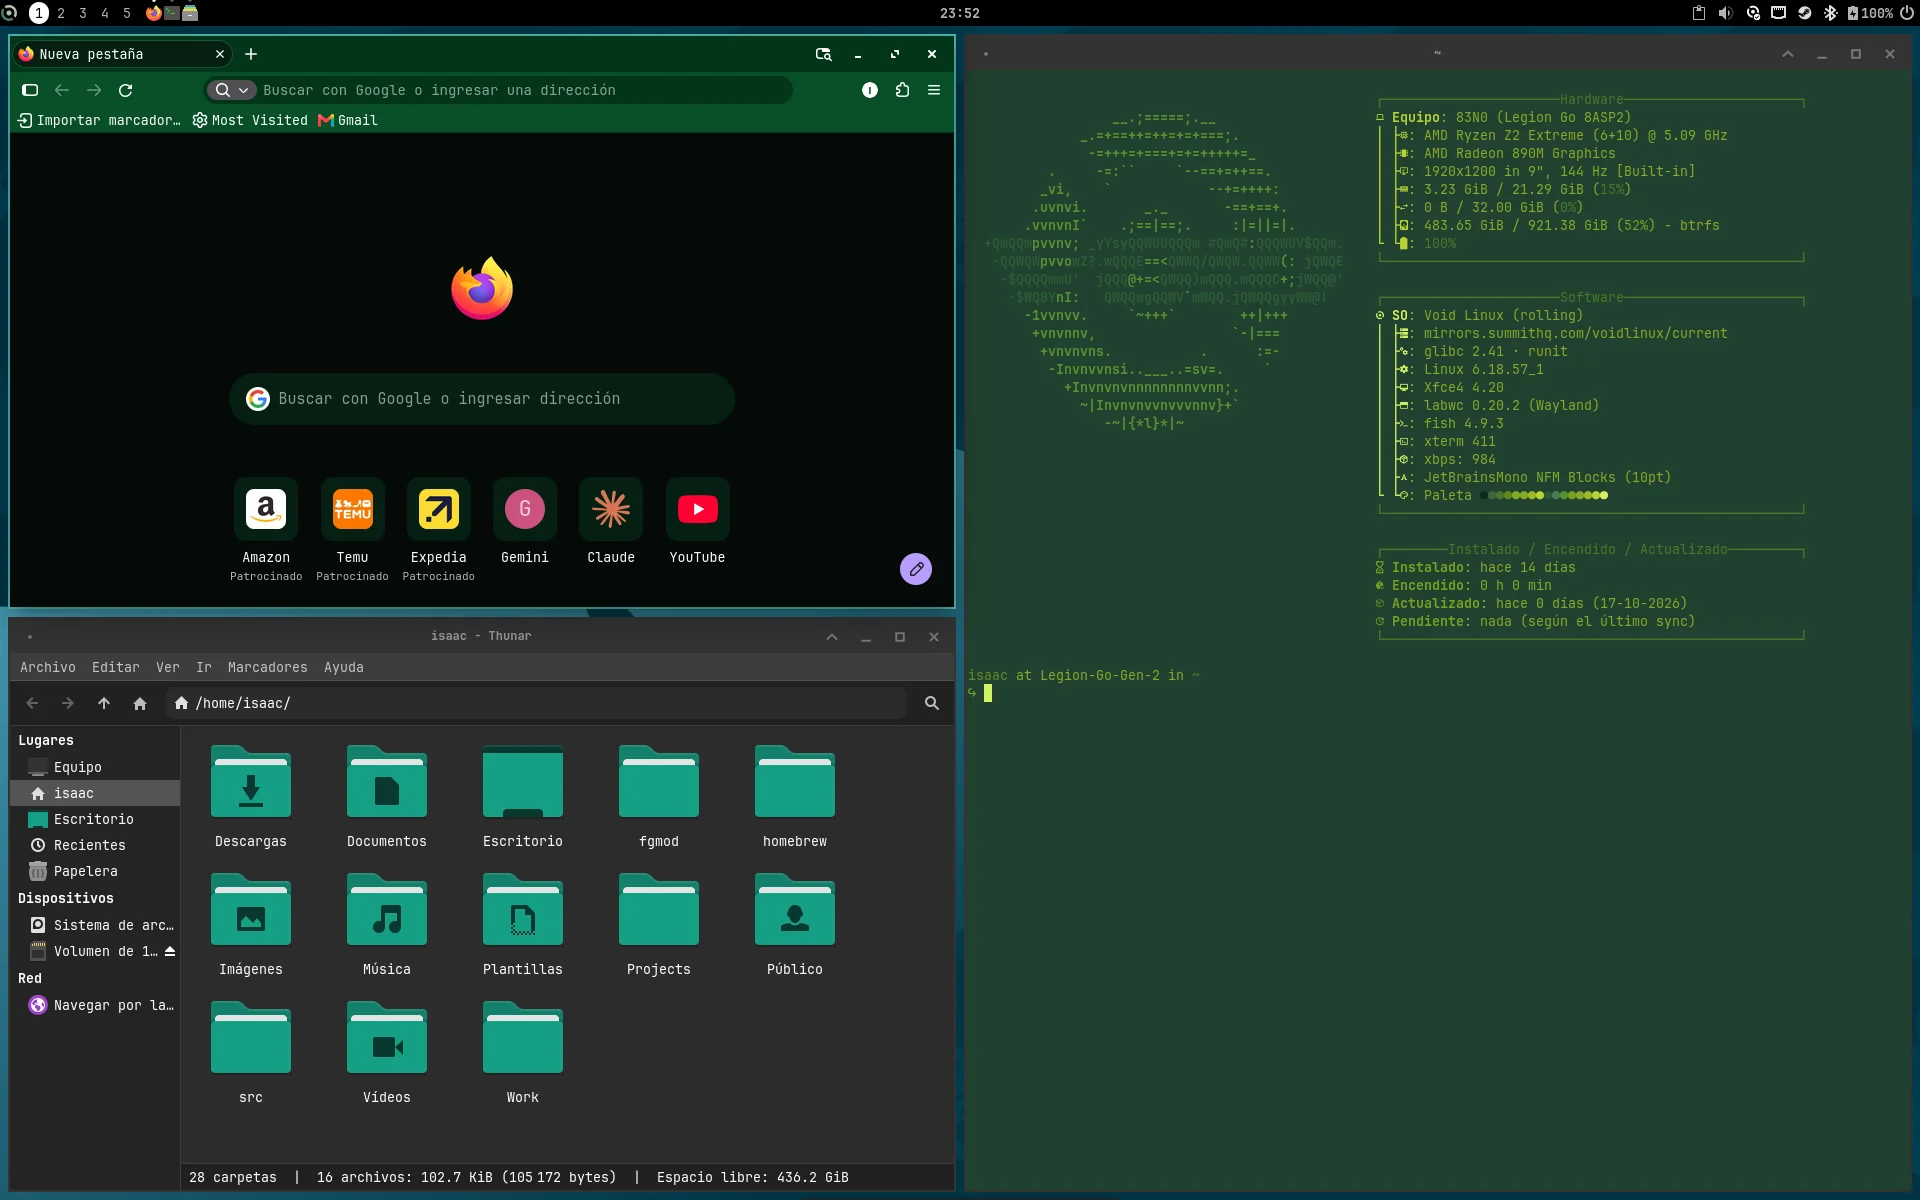
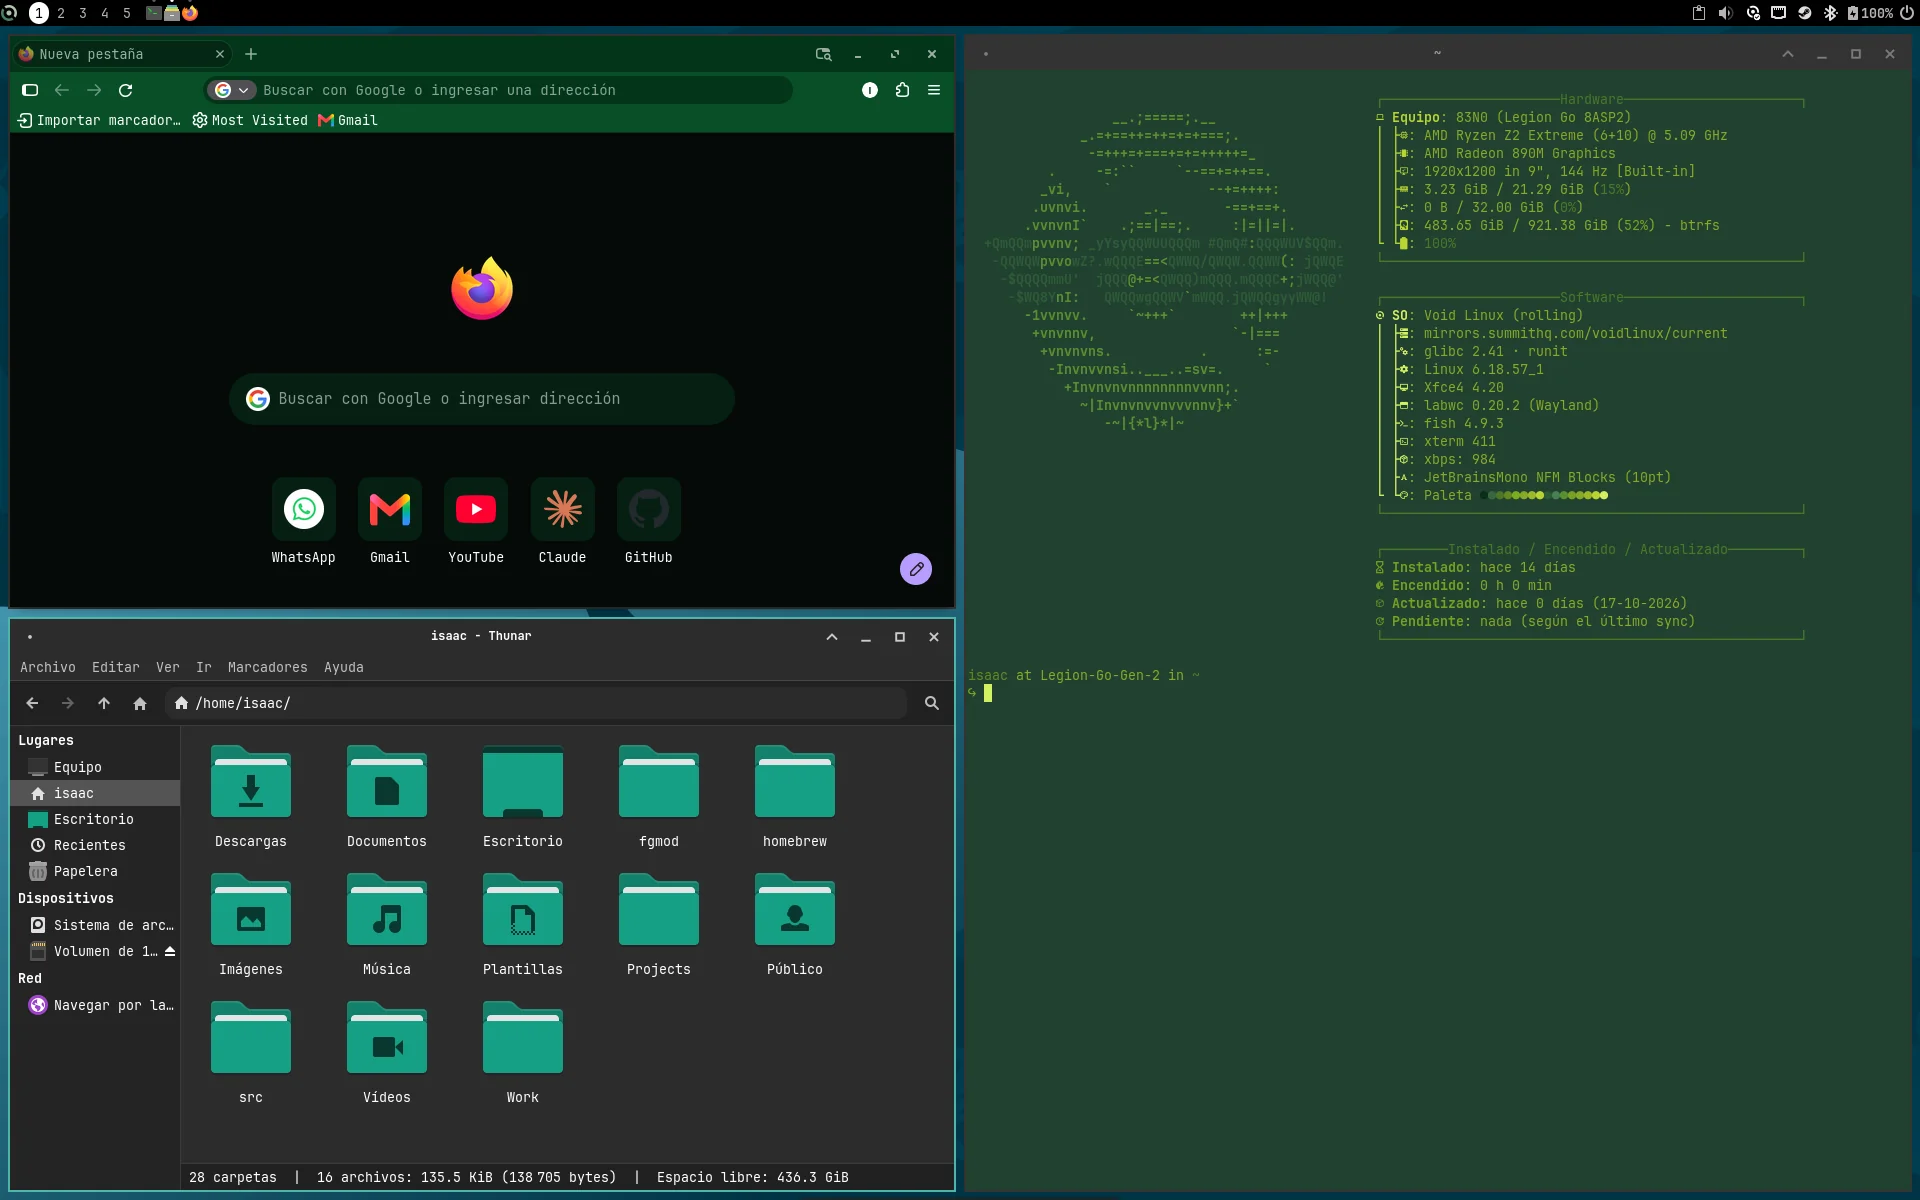
Wallpaper: the repository's Xfce configuration as on the machine
xfce4-desktop.xml had xfce-x.svg while the Legion (and the tour's screenshots)
use xfce-mouserace.svg, Xfce's own (xfdesktop), zoomed: a reinstall would not
have given what the pictures show. Copied from the Legion; look-and-feel.md
says so. The windows screenshot is the new one (no sponsored shortcuts), and
the tour says the interface is in Spanish.

Assisted-by: Claude Opus 5.5

diff --git a/CHANGELOG.md b/CHANGELOG.md
@@ -9,7 +9,9 @@ attempts, measurements) is in the private repository's archive and, until 2026-1
 - **A tour, with screenshots** ([docs/tour.md](docs/tour.md); two of them in the README): power-on, the Xfce
   desktop and its window snapping, Game Mode with SteamOS's interface, Decky, the controller seen as a Steam Deck's,
   and a light and a heavy game. Seven screenshots of the real machine in `docs/images/` (WebP, 736 KB; the Steam avatar
-  and the controller's id blurred); their third-party content credited in `THIRD_PARTY.md`.
+  and the controller's id blurred); their third-party content credited in `THIRD_PARTY.md`. The repository's Xfce
+  configuration now has the wallpaper the machine uses (`xfce-mouserace.svg`, not `xfce-x.svg`), so the screenshots,
+  the configuration and a reinstall agree; the windows screenshot taken again.
 
 ## 2026-10-17
 

diff --git a/docs/tour.md b/docs/tour.md
@@ -1,7 +1,8 @@
 # A tour
 
 What the Legion Go 2 is like to use with this setup, from power-on to playing. Every picture is a screenshot of the
-real machine (1920×1200, October 2026; the two games run at 16:9, shown without their black bars). The pages linked under each one explain how it is done.
+real machine (1920×1200, October 2026; the two games run at 16:9, shown without their black bars). The interface is in
+Spanish, the machine's language; the scripts follow the system's language too ([i18n](i18n.md)). The pages linked under each one explain how it is done.
 
 ## Power-on
 

diff --git a/docs/5-desktop/2-look-and-feel.md b/docs/5-desktop/2-look-and-feel.md
@@ -10,7 +10,7 @@ redo it.
 | Font (UI, monospace, titles) | **JetBrainsMono NFM Blocks** Bold 10 (titles Bold 9); `hintfull`, no subpixel, 96 DPI |
 | Cursor | **Volantes** (`volantes_cursors`, dark), size 24 |
 | Terminal | **xterm**, everywhere |
-| Wallpaper | xfdesktop's default (`xfce-x.svg`), no desktop icons |
+| Wallpaper | Xfce's `xfce-mouserace.svg` (from xfdesktop, in `/usr/share/backgrounds/xfce/`), zoomed to fill; no desktop icons |
 
 ## Fonts
 
